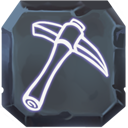
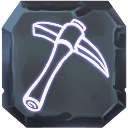
Updated stone buttons once more and removed high quality filter fro autodig and ignore buttons.

diff --git a/win/win32/xpl/GnollHackM/GamePage.xaml b/win/win32/xpl/GnollHackM/GamePage.xaml
@@ -50,8 +50,8 @@
                         <controls:SimpleImageButton x:Name="ToggleZoomAlternateButton" ImgSourcePath="resource://GnollHackM.Assets.UI.stone-altmap-off.png" BtnClicked="ToggleZoomAlternateButton_Clicked"/>
                         <controls:SimpleImageButton x:Name="LookModeButton" ImgSourcePath="resource://GnollHackM.Assets.UI.stone-look-off.png" BtnClicked="LookModeButton_Clicked"/>
                         <controls:SimpleImageButton x:Name="ToggleTravelModeButton" ImgSourcePath="resource://GnollHackM.Assets.UI.stone-travel-off.png" BtnClicked="ToggleTravelModeButton_Clicked"/>
-                        <controls:SimpleImageButton x:Name="ToggleAutoDigButton" ImgSourcePath="resource://GnollHackM.Assets.UI.stone-autodig-off.png" BtnClicked="ToggleAutoDigButton_BtnClicked" IsVisible="False" ImgHighFilterQuality="True" />
-                        <controls:SimpleImageButton x:Name="ToggleIgnoreModeButton" ImgSourcePath="resource://GnollHackM.Assets.UI.stone-ignore-off.png" BtnClicked="ToggleIgnoreModeButton_BtnClicked" IsVisible="False" ImgHighFilterQuality="True" />
+                        <controls:SimpleImageButton x:Name="ToggleAutoDigButton" ImgSourcePath="resource://GnollHackM.Assets.UI.stone-autodig-off.png" BtnClicked="ToggleAutoDigButton_BtnClicked" IsVisible="False" />
+                        <controls:SimpleImageButton x:Name="ToggleIgnoreModeButton" ImgSourcePath="resource://GnollHackM.Assets.UI.stone-ignore-off.png" BtnClicked="ToggleIgnoreModeButton_BtnClicked" IsVisible="False" />
                     </gnh:MeasurableGrid>
 
                     <!--<gnh:MeasurableStackLayout Grid.Row="0" x:Name="UpperCmdLayout" IsVisible="True" Orientation="Vertical" InputTransparent="true" CascadeInputTransparent="false" Spacing="6" HorizontalOptions="End">

diff --git a/win/win32/xpl/GnollHackX/GnollHackX/Pages/Game/GamePage.xaml b/win/win32/xpl/GnollHackX/GnollHackX/Pages/Game/GamePage.xaml
@@ -50,8 +50,8 @@
                         <controls:SimpleImageButton x:Name="ToggleZoomAlternateButton" ImgSourcePath="resource://GnollHackX.Assets.UI.stone-altmap-off.png" BtnClicked="ToggleZoomAlternateButton_Clicked"/>
                         <controls:SimpleImageButton x:Name="LookModeButton" ImgSourcePath="resource://GnollHackX.Assets.UI.stone-look-off.png" BtnClicked="LookModeButton_Clicked"/>
                         <controls:SimpleImageButton x:Name="ToggleTravelModeButton" ImgSourcePath="resource://GnollHackX.Assets.UI.stone-travel-off.png" BtnClicked="ToggleTravelModeButton_Clicked"/>
-                        <controls:SimpleImageButton x:Name="ToggleAutoDigButton" ImgSourcePath="resource://GnollHackX.Assets.UI.stone-autodig-off.png" BtnClicked="ToggleAutoDigButton_BtnClicked" IsVisible="False" ImgHighFilterQuality="True" />
-                        <controls:SimpleImageButton x:Name="ToggleIgnoreModeButton" ImgSourcePath="resource://GnollHackX.Assets.UI.stone-ignore-off.png" BtnClicked="ToggleIgnoreModeButton_BtnClicked" IsVisible="False" ImgHighFilterQuality="True" />
+                        <controls:SimpleImageButton x:Name="ToggleAutoDigButton" ImgSourcePath="resource://GnollHackX.Assets.UI.stone-autodig-off.png" BtnClicked="ToggleAutoDigButton_BtnClicked" IsVisible="False" />
+                        <controls:SimpleImageButton x:Name="ToggleIgnoreModeButton" ImgSourcePath="resource://GnollHackX.Assets.UI.stone-ignore-off.png" BtnClicked="ToggleIgnoreModeButton_BtnClicked" IsVisible="False" />
                     </gnh:MeasurableGrid>
 
                     <!--<gnh:MeasurableStackLayout Grid.Row="0" x:Name="UpperCmdLayout" IsVisible="True" Orientation="Vertical" InputTransparent="true" CascadeInputTransparent="false" Spacing="6" HorizontalOptions="End">
